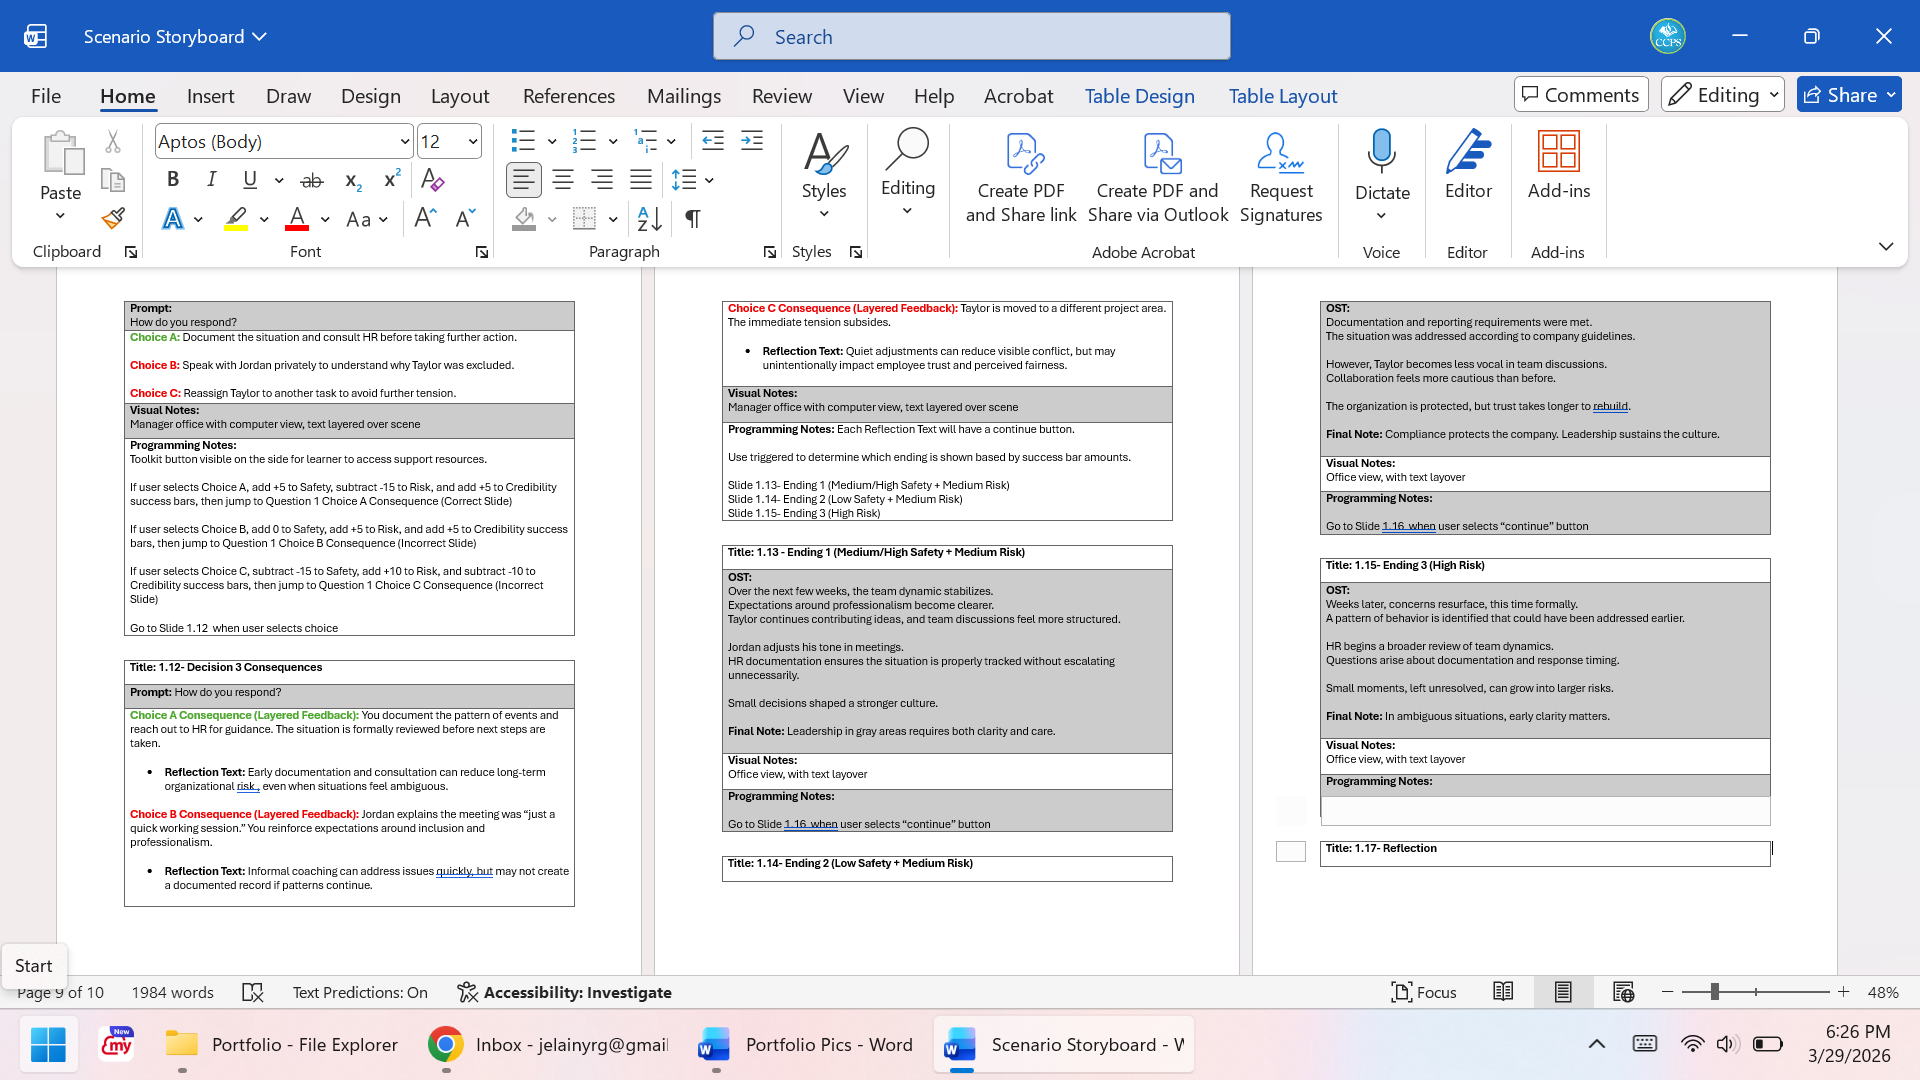
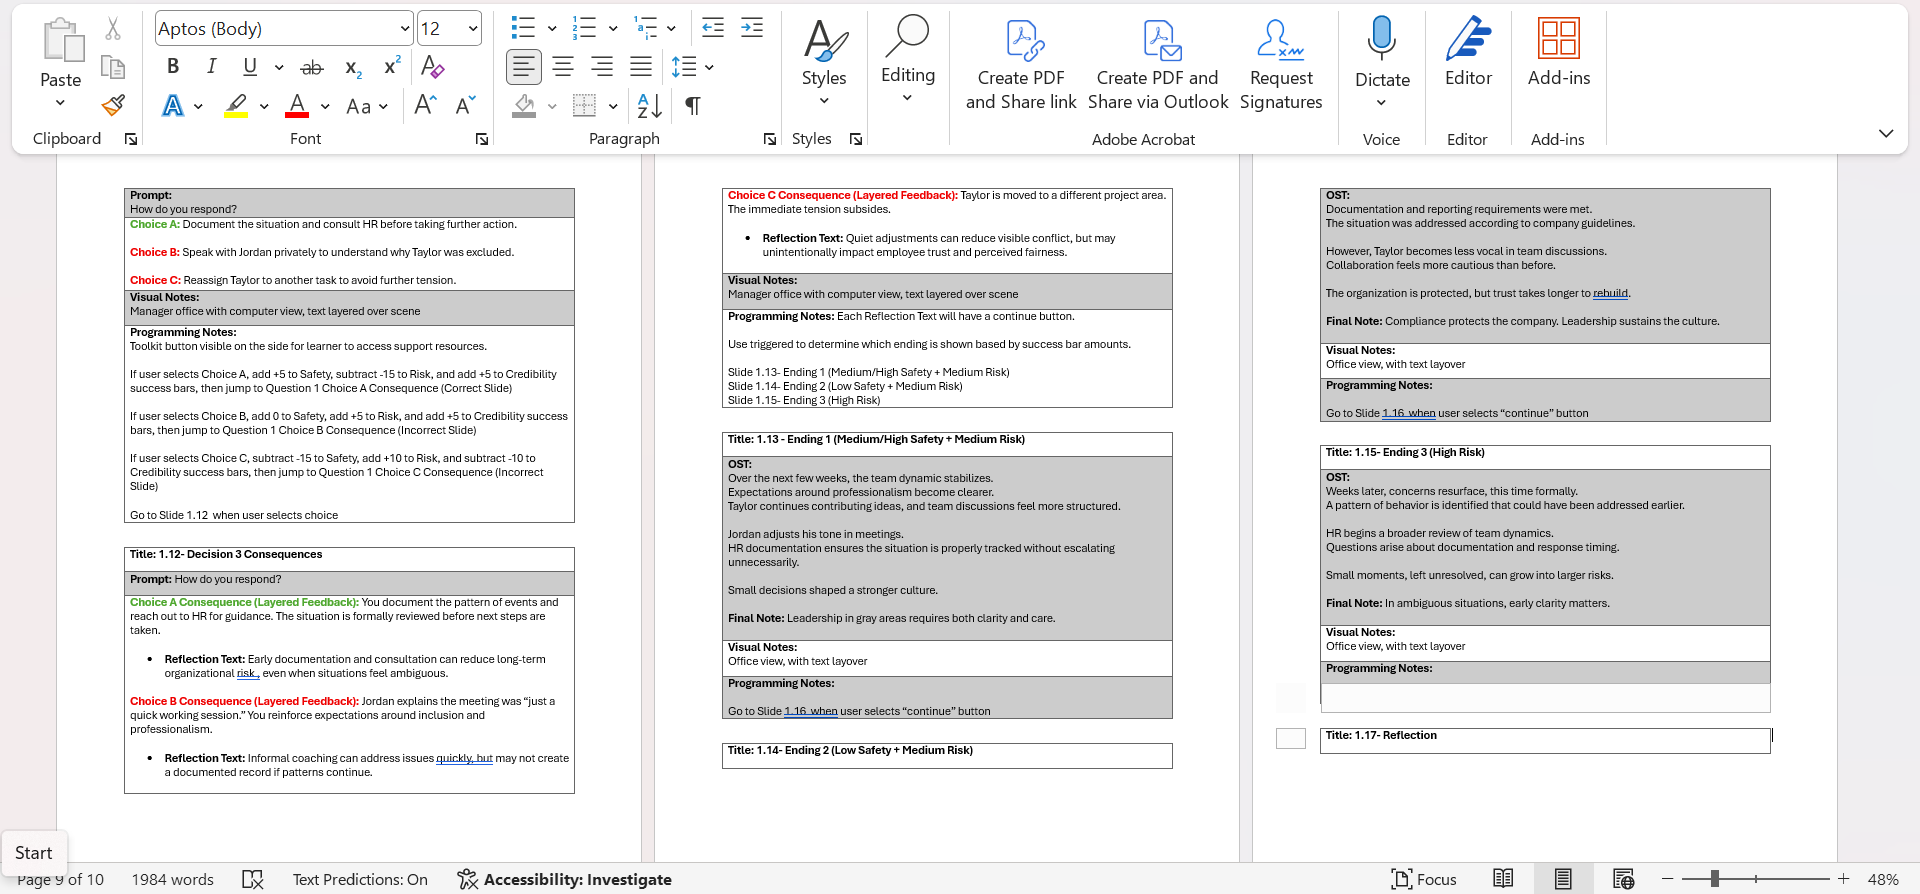
Enhance ImageLightbox accessibility and improve overflow handling; update descriptions for consistency across featured project and portfolio pages.

diff --git a/app/featuredproject/page.tsx b/app/featuredproject/page.tsx
@@ -5,8 +5,7 @@ import type { Metadata } from "next";
 
 export const metadata: Metadata = {
   title: "Navigating Workplace Conduct | Jelainy",
-  description:
-    "A scenario-based e-learning experience designed to help managers navigate ambiguous workplace conduct concerns.",
+  description: "A scenario based eLearning experience designed to help managers navigate unclear workplace conduct concerns.",
 };
 
 export default function FeaturedProjectPage() {
@@ -20,14 +19,14 @@ export default function FeaturedProjectPage() {
               Featured Project
             </p>
             <h1 className="text-4xl md:text-5xl font-serif font-bold leading-tight animate-fade-in-up">
+              Navigating{" "}
               <span className="scribble-underline text-accent">
-                Navigating
-              </span>{" "}
-              Workplace Conduct
+                Workplace Conduct
+              </span>
             </h1>
             <p className="mt-6 text-lg text-muted leading-relaxed animate-fade-in-up animation-delay-200">
-              A scenario-based e-learning experience designed to help managers
-              navigate ambiguous workplace conduct concerns. Using real-world
+              A scenario based eLearning experience designed to help managers
+              navigate unclear workplace conduct concerns. Using real world
               situations, learners explore how small decisions can shape team
               culture, trust, and compliance outcomes.
             </p>
@@ -97,9 +96,9 @@ export default function FeaturedProjectPage() {
                   Audience
                 </p>
                 <p className="text-muted text-sm leading-relaxed">
-                  New and mid-level marketing managers responsible for responding
+                  New and mid level marketing managers responsible for responding
                   to employee concerns who may lack confidence handling situations
-                  that require judgment, discretion, and balanced decision-making.
+                  that require judgment, discretion, and balanced decision making.
                 </p>
               </div>
             </div>
@@ -115,7 +114,7 @@ export default function FeaturedProjectPage() {
                 <p className="text-muted leading-relaxed">
                   At Northbridge Marketing Group, a fictitious marketing
                   corporation, managers are responsible for leading collaborative
-                  teams in a fast-paced, high-visibility environment. In these
+                  teams in a fast-paced environment. In these
                   settings, workplace conduct concerns can arise during everyday
                   interactions.
                 </p>
@@ -126,7 +125,7 @@ export default function FeaturedProjectPage() {
                   the risk to the organization and impacting team performance.
                   Despite this, many training courses focus primarily on policy
                   awareness rather than preparing managers to navigate these
-                  tricky, real-world situations.
+                  tricky, real world situations.
                 </p>
               </div>
 
@@ -136,12 +135,12 @@ export default function FeaturedProjectPage() {
                   Solution
                 </h2>
                 <p className="text-muted leading-relaxed">
-                  To solve the problem, I designed a scenario-based e-learning
+                  To solve the problem, I designed a scenario based eLearning
                   experience that allows managers to practice responding to
-                  workplace conduct concerns in a realistic, low-risk environment.
+                  workplace conduct concerns in a realistic, low risk environment.
                 </p>
                 <p className="text-muted leading-relaxed">
-                  I determined that scenario-based e-learning was the best
+                  I determined that scenario based eLearning was the best
                   solution because:
                 </p>
                 <ul className="space-y-3">
@@ -150,7 +149,7 @@ export default function FeaturedProjectPage() {
                     "Each decision reflects different situations that managers may encounter in their positions",
                     "The learning experience is easily scalable and can be completed in various work environments (in-person, hybrid, remote)",
                     "Learners may revisit the material, and the material can be adapted to different departments and management levels, making it a cost-effective solution",
-                    "In a real-world implementation, this experience could be further supported by follow-up resources or manager coaching to reinforce behavior change over time",
+                    "In a real world implementation, this experience could be further supported by follow-up resources or manager coaching to reinforce behavior change over time",
                   ].map((item) => (
                     <li key={item} className="flex items-start gap-3">
                       <span className="mt-1.5 w-2 h-2 rounded-full bg-accent shrink-0" />
@@ -172,31 +171,31 @@ export default function FeaturedProjectPage() {
                     {
                       step: "01",
                       title: "Action Mapping",
-                      desc: "I began by identifying the core performance problem and mapping out realistic workplace scenarios where managers must make decisions. I then explored the potential consequences, focusing on their impact on psychological safety, organizational risk, and team dynamics. From there, I identified the key behaviors that managers need to practice, ensuring that each interaction reinforces effective decision-making in ambiguous, real-world situations.",
+                      desc: "I began by identifying the core performance problem and mapping out realistic workplace scenarios where managers must make decisions. I then explored the potential consequences, focusing on their impact on psychological safety, organizational risk, and team dynamics. From there, I identified the key behaviors that managers need to practice, ensuring that each interaction reinforces effective decision making in ambiguous, real world situations.",
                       image: "/articulate/grayareas/images/action mapping.png",
                     },
                     {
                       step: "02",
-                      title: "Text-Based Storyboard",
-                      desc: 'After identifying the key decision points, I created a detailed storyboard to map out the learner experience. I wrote each scenario using natural, conversational dialogue to reflect realistic workplace interactions. At each decision point, learners choose how to respond and experience the consequences as the scenario unfolds. I also incorporated a "Manager Toolkit" that provides optional guidance, allowing learners to access support as needed while still encouraging independent decision-making.',
+                      title: "Text Based Storyboard",
+                      desc: 'After identifying the key decision points, I created a detailed storyboard to map out the learner experience. I wrote each scenario using natural, conversational dialogue to reflect realistic workplace interactions. At each decision point, learners choose how to respond and experience the consequences as the scenario unfolds. I also incorporated a "Manager Toolkit" that provides optional guidance, allowing learners to access support as needed while still encouraging independent decision making.',
                       image: "/articulate/grayareas/images/story board.png",
                     },
                     {
                       step: "03",
                       title: "Visual Mockups",
-                      desc: "Using Canva, I developed the overall layout, style guide, and background mockups to establish a cohesive visual direction. I then implemented the interface in Articulate Storyline with a custom layout that feels more like a workplace environment than a traditional eLearning course — including a manager dashboard, progress indicators, and a persistent Manager Toolkit.",
+                      desc: "Using Canva, I developed the overall layout, style guide, and background mockups to establish a cohesive visual direction. I then implemented the interface in Articulate Storyline with a custom layout that feels more like a workplace environment than a traditional eLearning course, including a manager dashboard, progress indicators, and a persistent Manager Toolkit.",
                       image: "/articulate/grayareas/images/visual mockups.png",
                     },
                     {
                       step: "04",
                       title: "Prototyping",
-                      desc: "I developed an interactive prototype to test the flow, functionality, and overall user experience — building core interactions including branching decision points, variable-driven progress indicators, and layered feedback. Throughout prototyping, I tested the experience to refine navigation, improve pacing, and ensure a smooth and intuitive user experience.",
+                      desc: "I developed an interactive prototype to test the flow, functionality, and overall user experience, building core interactions including branching decision points, variable driven progress indicators, and layered feedback. Throughout prototyping, I tested the experience to refine navigation, improve pacing, and ensure a smooth and intuitive user experience.",
                       image: "/articulate/grayareas/images/prototyping.png",
                     },
                     {
                       step: "05",
                       title: "Development",
-                      desc: "After incorporating feedback from the interactive prototype, I moved into full development in Articulate Storyline. I refined the interactions, finalized visual elements, and ensured all variables, triggers, and branching logic functioned as intended — polishing transitions and pacing to create a seamless and engaging learner experience.",
+                      desc: "After incorporating feedback from the interactive prototype, I moved into full development in Articulate Storyline. I refined the interactions, finalized visual elements, and ensured all variables, triggers, and branching logic functioned as intended, polishing transitions and pacing to create a seamless and engaging learner experience.",
                       image: null,
                     },
                   ].map((item) => (
@@ -233,24 +232,24 @@ export default function FeaturedProjectPage() {
                 </h2>
                 <p className="text-muted leading-relaxed">
                   This project demonstrates my ability to apply the ADDIE model
-                  to design a performance-focused learning experience from
+                  to design a performance focused learning experience from
                   analysis through evaluation. By grounding the experience in
-                  real-world decision-making, I was able to move beyond
-                  knowledge-based training and focus on observable behaviors.
+                  real world decision making, I was able to move beyond
+                  knowledge based training and focus on observable behaviors.
                 </p>
                 <p className="text-muted leading-relaxed">
                   The design supports multiple levels of the Kirkpatrick Model.
                   At Level 1 (Reaction), the immersive format is intended to
                   increase engagement and relevance. At Level 2 (Learning),
-                  learners practice decision-making and receive immediate
+                  learners practice decision making and receive immediate
                   feedback. At Level 3 (Behavior), the Manager Toolkit mirrors
-                  on-the-job performance support to bridge the gap between
-                  learning and real-world application.
+                  on the job performance support to bridge the gap between
+                  learning and real world application.
                 </p>
                 <p className="text-muted leading-relaxed">
-                  If implemented in a real-world setting, this solution could be
+                  If implemented in a real world setting, this solution could be
                   evaluated using learner decision patterns, completion rates,
-                  time spent on key interactions, and follow-up assessments to
+                  time spent on key interactions, and follow up assessments to
                   measure behavior change over time.
                 </p>
               </div>
@@ -261,20 +260,20 @@ export default function FeaturedProjectPage() {
                   Takeaways
                 </h2>
                 <p className="text-muted leading-relaxed">
-                  Managing this project end-to-end strengthened both my
-                  instructional design and e-learning development skills. Working
+                  Managing this project end to end strengthened both my
+                  instructional design and eLearning development skills. Working
                   through each phase of ADDIE reinforced the importance of
                   thoughtful planning, iterative design, and continuous
                   refinement throughout the process.
                 </p>
                 <p className="text-muted leading-relaxed">
                   One key takeaway was the value of designing for performance
-                  rather than information. By focusing on real-world decisions and
+                  rather than information. By focusing on real world decisions and
                   consequences, I was able to create a more meaningful and
                   engaging experience that better reflects the complexity of
-                  workplace situations. Creating a cohesive interface — including
+                  workplace situations. Creating a cohesive interface, including
                   custom layouts, progress indicators, and a persistent Manager
-                  Toolkit — required careful attention to detail and reinforced
+                  Toolkit, required careful attention to detail and reinforced
                   the importance of investing time in the analysis and design
                   phases.
                 </p>
@@ -288,7 +287,7 @@ export default function FeaturedProjectPage() {
       <section className="bg-section-alt">
         <div className="max-w-3xl mx-auto px-6 py-20 md:py-28 text-center space-y-8">
           <h2 className="text-3xl md:text-4xl font-serif font-bold leading-tight">
-            Want to see more <span className="text-accent">projects</span>?
+            Want to see more <span className="scribble-underline text-accent">projects</span>?
           </h2>
           <div className="flex flex-col sm:flex-row items-center justify-center gap-4">
             <Link

diff --git a/app/portfolio/page.tsx b/app/portfolio/page.tsx
@@ -1,36 +1,37 @@
 import Link from "next/link";
+import Image from "next/image";
 import type { Metadata } from "next";
 
 export const metadata: Metadata = {
   title: "Portfolio | Jelainy",
   description:
-    "Explore Jelainy's portfolio of learning experience design projects — from e-learning modules to curriculum design.",
+    "Explore Jelainy's portfolio of learning experience design projects, from eLearning modules to curriculum design.",
 };
 
 const projects = [
   {
     title: "Navigating Workplace Conduct",
-    category: "Scenario-Based Learning",
+    category: "Scenario Based Learning",
     description:
-      "A scenario-based e-learning experience designed to help managers navigate ambiguous workplace conduct concerns and make decisions with real consequences.",
+      "A scenario based eLearning experience designed to help managers navigate ambiguous workplace conduct concerns and make decisions with real consequences.",
     href: "/featuredproject",
-    color: "bg-accent-light",
+    image: "/articulate/grayareas/story_content/thumbnail.jpg",
   },
   {
-    title: "Constructive Feedback",
+    title: "How To Give Constructive Feedback ",
     category: "Microlearning",
     description:
       "A microlearning experience introducing a simple 3-step framework for delivering clear, actionable, and supportive feedback.",
     href: "/projects/constructive-feedback",
-    color: "bg-teal-light",
+    image: "/articulate/constructivefeedback/assets/stock-image-1.jpg",
   },
   {
     title: "APEX Needs Analysis",
     category: "Performance Consulting",
     description:
-      "A performance consulting project identifying root causes of service inconsistencies and recommending targeted, non-training solutions.",
+      "A performance consulting project identifying root causes of service inconsistencies and recommending targeted, non training solutions.",
     href: "/projects/apex-needs-analysis",
-    color: "bg-blue-light",
+    image: "/articulate/apex/1.png",
   },
 ];
 
@@ -66,13 +67,17 @@ export default function PortfolioPage() {
                 href={project.href}
                 className="group bg-card-bg rounded-2xl overflow-hidden shadow-sm card-hover flex flex-col"
               >
-                {/* Colored header area */}
-                <div
-                  className={`${project.color} h-48 flex items-center justify-center`}
-                >
-                  <span className="text-accent font-serif font-bold text-lg opacity-60 group-hover:opacity-100 transition-opacity">
-                    {project.category}
-                  </span>
+                {/* Image header */}
+                <div className="relative h-48 w-full overflow-hidden">
+                  <Image
+                    src={project.image}
+                    alt={project.title}
+                    fill
+                    className="object-cover transition-transform duration-500 group-hover:scale-[1.05]"
+                  />
+                  <div className="absolute inset-0 bg-accent/50 opacity-0 group-hover:opacity-100 transition-opacity duration-300 flex items-center justify-center">
+                    <span className="text-white font-semibold text-sm">View Project</span>
+                  </div>
                 </div>
 
                 {/* Content */}
@@ -113,7 +118,7 @@ export default function PortfolioPage() {
       <section className="py-20 md:py-28">
         <div className="max-w-3xl mx-auto px-6 text-center space-y-8">
           <h2 className="text-3xl md:text-4xl font-serif font-bold leading-tight">
-            Have a project in <span className="text-accent">mind</span>?
+            Have a project in <span className="scribble-underline text-accent">mind</span>?
           </h2>
           <p className="text-muted leading-relaxed">
             I&apos;d love to hear about it. Let&apos;s connect and explore how we

diff --git a/app/components/ImageLightbox.tsx b/app/components/ImageLightbox.tsx
@@ -22,8 +22,14 @@ export default function ImageLightbox({
     function onKeyDown(e: KeyboardEvent) {
       if (e.key === "Escape") setOpen(false);
     }
-    if (open) document.addEventListener("keydown", onKeyDown);
-    return () => document.removeEventListener("keydown", onKeyDown);
+    if (open) {
+      document.addEventListener("keydown", onKeyDown);
+      document.body.style.overflow = "hidden";
+    }
+    return () => {
+      document.removeEventListener("keydown", onKeyDown);
+      document.body.style.overflow = "";
+    };
   }, [open]);
 
   return (
